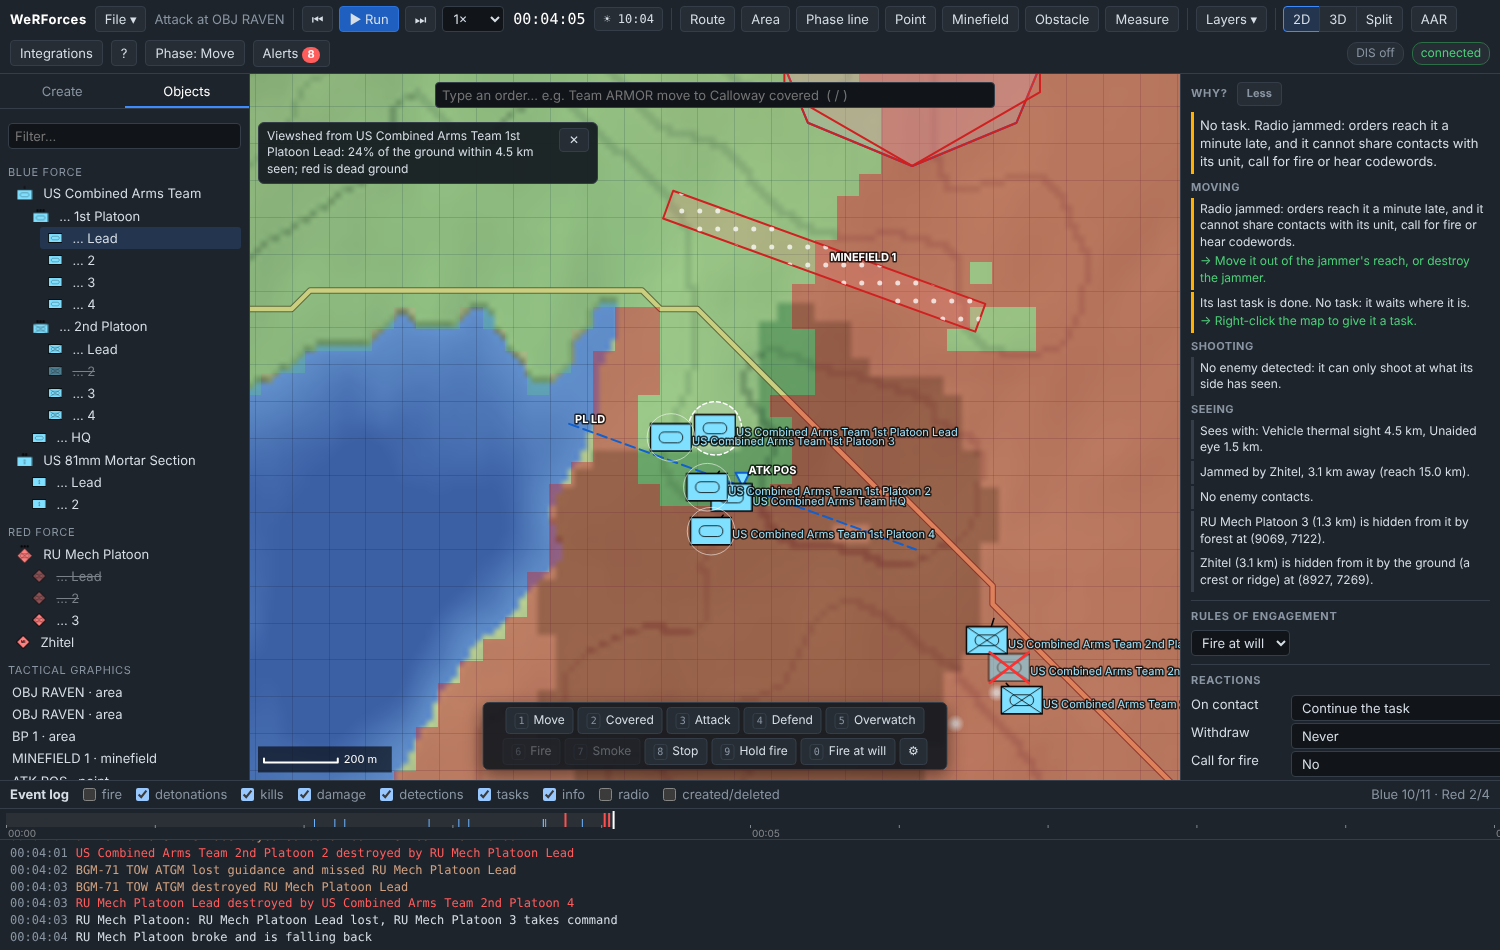
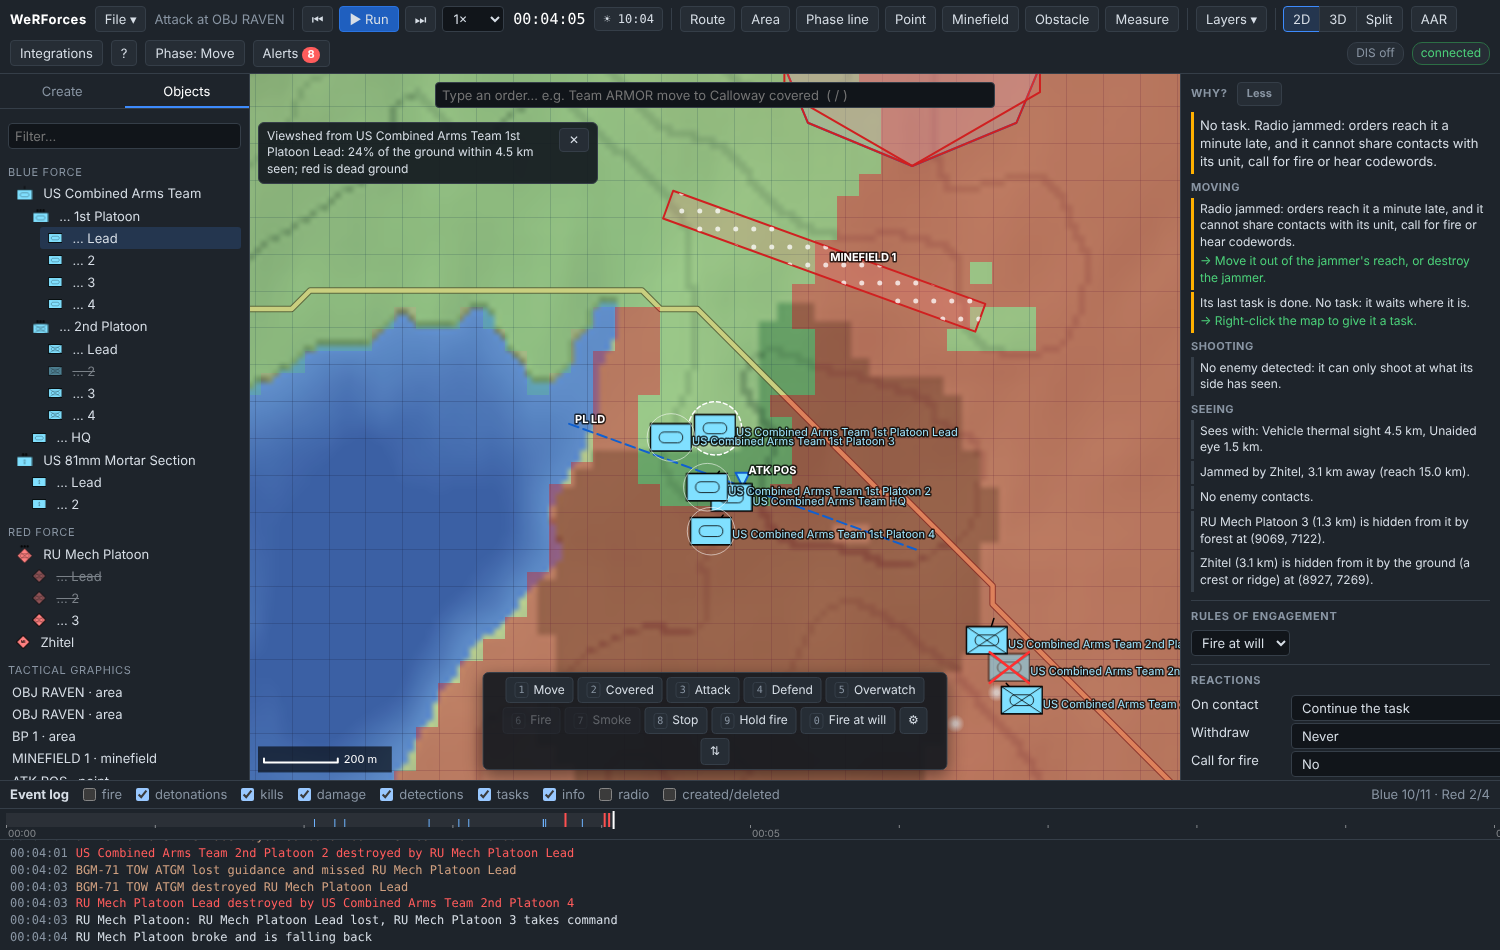
Docs: tutorial 16 and guides updated for the latest fixes
Quick-battle phase orders shown as tasks, the Deploy phase, the codeword
box in the Phases dialog, the quick-task bar's dock button, alerts that
come back, one-step settings undo, and typed orders taking a graphic
drawn once for each force as one place.

Claude-Session: https://claude.ai/code/session_019S1D5WkPWw8YDuwARok2oj

Changed region(s): [[0.3067, 0.7021, 0.644, 0.7937]]

diff --git a/docs/tutorials/16-quick-battle-and-command-tools.md b/docs/tutorials/16-quick-battle-and-command-tools.md
@@ -78,34 +78,48 @@ for the full name.
 ## 3. The synchronization matrix
 
 Press **Phases** in the toolbar (or **Show phases** in the brief). This is
-Blue's operation, one column per phase and one row per unit. Over the API, `GET
-$B/sync-matrix` returns both sides' matrices. In short:
+Blue's operation, one column per phase and one row per unit. The wizard gave
+the orders as tasks, so the cells show their descriptions (*Move to 08.922E
+06.668N*); hover one: *Given as a task; type over it to change it*. Over the
+API, `GET $B/sync-matrix` returns both sides' matrices:
 
 | Force | Phase | Trigger | Orders |
 | --- | --- | --- | --- |
-| Blue | P1 Move | at time 1 s | US Combined Arms Team: move to ATK POS |
-| Blue | P2 Assault | when previous done, +30 s | US Combined Arms Team: assault OBJ RAVEN; US 81mm Mortar Section: fire 4 rounds on OBJ RAVEN |
-| Blue | P3 Consolidate | when previous done, +10 s | US Combined Arms Team: consolidate (defend) on OBJ RAVEN |
-| Red | P1 Defend | at time 0 | RU Mech Platoon: defend BP 1 |
+| Blue | P1 Move | at time 1 s | US Combined Arms Team: Move to 08.922E 06.668N (ATK POS) |
+| Blue | P2 Assault | when previous done, +30 s | US Combined Arms Team: Move to 09.382E 07.938N (OBJ RAVEN); US 81mm Mortar Section: Fire mission 09.382E 07.938N, 4 rounds |
+| Blue | P3 Consolidate | when previous done, +10 s | US Combined Arms Team: Defend 09.382E 07.938N facing 20° |
+| Red | P1 Defend | at time 0 | RU Mech Platoon: Defend 09.382E 07.938N facing 200° |
+
+```json
+{"force": 1, "phases": [
+  {"id": "P1", "name": "Move", "trigger": {"type": "time", "time": 1},
+   "orders": [{"targetId": "U1", "task": {"type": "moveTo", "target": {"x": 8922.181219652968, "y": 6668.40571970489}}}]},
+  {"id": "P2", "name": "Assault", "trigger": {"type": "previousDone", "delay": 30}, ...},
+  ...], "started": {}}
+```
 
 Phases start in order. When one starts, it gives all its orders at once and
 sends its name to its force as a **codeword**: *Move* sends *MOVE*, so a unit's
-plan can *wait until codeword MOVE*.
+plan can *wait until codeword MOVE*. (Support that never finishes its orders,
+such as scouts on overwatch or helicopters holding, gets a phase of its own,
+*P0 Deploy*, so it doesn't hold up the others. This battle has none.)
 
 As planned, Blue assaults 30 s after the team reaches ATK POS. Make it wait for
-your word instead: change P2's trigger to the codeword **EXECUTE**. A matrix is
-replaced as a whole, and each order can be given in words, as you would type it
-on the order line but without the unit's name:
+your word instead: change P2's trigger to the codeword **EXECUTE**. In the
+dialog, set the chooser under *Assault* to **on codeword**, type *EXECUTE* in
+the box next to it and press **Save**. Over the API, a matrix is replaced as a
+whole, and each order can be given in words, as you would type it on the order
+line but without the unit's name:
 
 ```bash
 curl -s -X PUT -H "$H" $B/sync-matrix/blue -d '{"phases": [
   {"id": "P1", "name": "Move", "trigger": {"type": "time", "time": 1},
    "orders": [{"targetId": "U1", "text": "move to ATK POS"}]},
   {"id": "P2", "name": "Assault", "trigger": {"type": "codeword", "codeword": "EXECUTE"},
-   "orders": [{"targetId": "U1", "text": "move to 9382 7938"},
-              {"targetId": "U5", "text": "fire 4 rounds on 9382 7938"}]},
+   "orders": [{"targetId": "U1", "text": "move to OBJ RAVEN"},
+              {"targetId": "U5", "text": "fire 4 rounds on OBJ RAVEN"}]},
   {"id": "P3", "name": "Consolidate", "trigger": {"type": "previousDone", "delay": 10},
-   "orders": [{"targetId": "U1", "text": "defend 9382 7938 facing 20 width 500 m"}]}]}'
+   "orders": [{"targetId": "U1", "text": "defend OBJ RAVEN facing 20 width 500 m"}]}]}'
 ```
 
 The server turns each `text` into a task (it answers 400, naming the unit and
@@ -118,11 +132,12 @@ phase, if it can't) and returns the matrix, with `started` still empty:
  "started": {}}
 ```
 
-(9382 7938 is the centre of OBJ RAVEN. Exercise control sees both sides'
-*OBJ RAVEN*, so the name alone is ambiguous; a player would only see their
-own.) Open **Phases** again: the cells now read as typed, green when they parse
-as an order. Each column's trigger is the chooser under its name: *by hand*,
-*at time (s)*, *on codeword* or *when previous done (+s)*.
+The outputs below come from this call. The dialog keeps the wizard's exact
+coordinates where the call rounds them to the metre, so with the GUI a few
+grid references come out a metre different. Open **Phases** again: the cells
+now read as typed, green when they parse as an order. Each column's trigger is
+the chooser under its name: *by hand*, *at time (s)*, *on codeword* or *when
+previous done (+s)*.
 
 ![Blue's synchronization matrix after the change, with phase Move started](../images/tutorial-16-phases.png)
 
@@ -180,7 +195,8 @@ The team passed its order down to its platoons, each keeping its place.
 offers the common orders as buttons with keys **1**–**0**: *Move*, *Covered*,
 *Attack*, *Defend*, *Overwatch*, *Fire*, *Smoke*, *Stop*, *Hold fire*, *Fire
 at will*. Press **2** and click ATK POS for the same covered move. **⚙**
-chooses the buttons.
+chooses the buttons, and **⇅** moves the bar to the top of the map when it
+covers units near the bottom edge.
 
 ## 5. Travel estimates
 
@@ -341,9 +357,9 @@ warning). E2's **Why?** explains what that means:
 - *Jammed by Zhitel, 3.1 km away (reach 15.0 km).* (info, exercise control
   only)
 
-Now give the word for the assault. There is no codeword button in the GUI:
-send it over the API (or MCP `send_codeword`), or press **▶ Start now** on the
-Assault column in **Phases**, which starts the phase the same way. At 0:05:00:
+Now give the word for the assault. At 0:05:00 open **Phases**, type *execute* in
+the codeword box at the bottom and press **Send codeword** (or use MCP
+`send_codeword`, or the API):
 
 ```bash
 curl -s -H "$H" $B/codewords -d '{"force": 1, "codeword": "execute"}'

diff --git a/docs/user-guide.md b/docs/user-guide.md
@@ -411,8 +411,9 @@ orders. Each button has a key, **1** to **9** then **0**:
 
 Buttons the selection can't use are greyed out. **⚙** chooses up to ten
 buttons and their order from the full list (which adds *Follow*, *Screen*,
-*Orbit*, *Return fire*, *Resupply* and *Dismount*). The choice is kept in this
-browser.
+*Orbit*, *Return fire*, *Resupply* and *Dismount*). **⇅** moves the bar to
+the top of the map (and back), for when it covers units near the bottom edge.
+Both choices are kept in this browser.
 
 ## Alerts
 
@@ -435,7 +436,8 @@ loose entity:
 Critical alerts also pop up once. Click an alert to select and centre what it
 is about, ✓ to acknowledge it, or **Acknowledge all**. **N** jumps to the next
 alert. Alerts about a condition that clears (fuel, morale, jamming) close by
-themselves. Players only see their own force's alerts. REST `GET
+themselves. An alert you acknowledged stays quiet while its condition lasts,
+and comes back if the condition clears and then returns. Players only see their own force's alerts. REST `GET
 /api/v1/alerts`, MCP `get_alerts`.
 
 ## Synchronization matrix
@@ -445,7 +447,9 @@ phase, one row per unit (and loose entity), and in each cell that unit's order
 for the phase, in words as on the [order line](#typed-orders) but without the
 name (*move to Calloway covered*, *defend OBJ CALLOWAY facing north*, *hold
 fire*; several separated by *;*). A cell turns green when it reads as an order
-(hover to see how) and red when it doesn't.
+(hover to see how) and red when it doesn't. Orders given as tasks (by a quick
+battle, or through the API) show as their description, e.g. *Move to 08.922E
+06.668N*, and are kept as they are unless you type over them.
 
 Above each column are the phase's name and its trigger:
 
@@ -461,7 +465,9 @@ Phases start in order: one waits until the one before it has started. When a
 phase starts it gives all its orders at once and sends its name to the force as
 a codeword (phase *Assault* sends *ASSAULT*), so unit plans can wait for it.
 **+ Phase** adds a column, ✕ removes one, **Save** stores the matrix and
-**Close** leaves without saving. A started phase shows *started 00:05:01*.
+**Close** leaves without saving. Type a word in the codeword box at the bottom
+and press **Send codeword** to send it to the force now: phases and plans
+waiting for it go on. A started phase shows *started 00:05:01*.
 Exercise control picks the force at the top; a player plans for their own.
 See [Concepts](concepts.md#synchronization-matrix).
 
@@ -493,7 +499,8 @@ shows its speed, heading, throttle, target, damage and ammunition.
 | Esc | Hand it back: it stops and its task ends |
 
 Driving replaces its task and plan, and any other order ends it. Driving a unit's leader takes the unit's
-orders away too; members keeping formation follow it. Aircraft keep at least
+orders away too, and its members fall in behind it in formation (also those
+that were holding positions of their own). Aircraft keep at least
 their minimum speed. REST `POST /api/v1/entities/{id}/drive` with `{"throttle":
 0.5, "turn": -1, "targetId": "E12"}` (a turn lasts 1.5 s unless sent again).
 
@@ -557,6 +564,9 @@ File → **Simulation settings…** (or click the time-of-day chip):
   roads; people walk about the towns. They are neutral (force 3) and run from
   shots and blasts nearby. See [Concepts](concepts.md#pattern-of-life).
 
+**Apply** changes all of these as one edit, so one **Undo** takes the whole
+dialog back.
+
 ## Quick battle
 
 File → **Quick battle…** builds a ready-to-run battle and replaces the current
@@ -580,7 +590,11 @@ scenario:
 **Build battle** places both forces on land either side of an objective (a town
 near the middle of the map when there is one), draws the mission's graphics
 (objective, attack position, line of departure, battle position, minefield...)
-and gives each side a [synchronization matrix](#synchronization-matrix). The
+and gives each side a [synchronization matrix](#synchronization-matrix), its
+orders given as tasks. Support whose orders never finish (scouts watching the
+objective from their own side, attack helicopters holding over the battle
+area, sappers following the attack) gets them in a first phase of its own, *P0
+Deploy*, so it does not hold up the phases that wait for the one before. The
 brief that follows says who does what; **Start** runs the clock, **Show
 phases** opens the matrix. The quick battle is one edit: **Undo** brings back
 the previous scenario. REST `POST /api/v1/scenario/quick-battle`, MCP

diff --git a/docs/concepts.md b/docs/concepts.md
@@ -237,7 +237,7 @@ A **plan** is a list of statements carried out **in order**:
 | `waitUntil` *condition* | Wait until the condition holds |
 | `if` *condition* `then` [...] `else` [...] | Check the condition once, now, and carry out one branch (`else` is optional) |
 | `while` *condition* `body` [...] | Check the condition; while it holds, carry out the body and check again |
-| `sendCodeword` *word* | Send a [codeword](#codewords) to the owner's force and continue |
+| `sendCodeword` *word* | Send a [codeword](#codewords) to the owner's force and continue. While the owner's radio is jammed the plan waits here |
 | `report` *text* | Put a radio message from the owner in the event log (*radio*) and continue |
 
 Conditions:
@@ -285,7 +285,9 @@ unit that sent it).
 
 Once a force has a codeword it keeps it, so a plan that reaches *wait until
 codeword EXECUTE* after it was sent goes straight on. A unit whose radio is
-[jammed](#electronic-warfare) does not hear codewords until its radio is back.
+[jammed](#electronic-warfare) does not hear codewords until its radio is back,
+and a plan cannot send one while its unit's radio is jammed: it waits at that
+step.
 Codewords are per force: Red can't hear Blue's. `GET /api/v1/codewords` lists
 them with the time each was first sent; checkpoints save them.
 
@@ -311,7 +313,10 @@ out to the force as a codeword (*ASSAULT*).
 Orders are carried out like any order: a later order to the same unit (typed,
 from a plan, or by hand) replaces the phase's order. An order that never ends,
 such as *Defend* or *Overwatch* without a duration, keeps a following
-`previousDone` phase waiting; use another trigger after such a phase. Phases
+`previousDone` phase waiting: give such orders in a phase of their own, with
+another trigger after it (a quick battle puts its support's orders in a first
+*Deploy* phase for this reason). An order to a unit with no one left alive
+counts as failed, so it doesn't hold up the next phase. Phases
 are checked once a simulated second. Each force has its own matrix and its own
 record of which phases have started. Up to 20 phases of up to 100 orders each.
 
@@ -684,7 +689,8 @@ leader lost, losses, under fire or first contact after a quiet minute, and
 radio jammed. Each is about a unit or a loose entity, with a severity
 (critical, warning, info), the time it was last raised and a count. An alert
 about a lasting condition (broken, fuel, ammunition, jammed) closes by itself
-when the condition clears. Acknowledged alerts are kept (up to 200 in all) and
+when the condition clears. Acknowledged while the condition lasts, it is not
+raised again until the condition has cleared and come back. Acknowledged alerts are kept (up to 200 in all) and
 listed with `GET /api/v1/alerts?all=true`. Alerts are checked once a simulated
 second and only read the simulation.
 

diff --git a/docs/faq.md b/docs/faq.md
@@ -143,9 +143,11 @@ jammer, or switch it off (exercise control: the jammer's inspector, or `PATCH
 Phases start in order, so check that the one before it has started (**Phases**
 shows *started* and the time). A *when previous done* trigger waits until every
 order of the previous phase is carried out: an order that never ends, such as
-*Defend* or *Overwatch* without a duration, keeps it waiting. A *codeword*
-trigger needs exactly that codeword (`GET /api/v1/codewords` lists those sent).
-**▶ Start now** starts a phase by hand.
+*Defend* or *Overwatch* without a duration, keeps it waiting (orders to units
+wiped out count as done). Move such orders to a phase of their own, or give the
+next phase another trigger. A *codeword* trigger needs exactly that codeword
+(`GET /api/v1/codewords` lists those sent); send it from the codeword box at
+the bottom of the **Phases** dialog. **▶ Start now** starts a phase by hand.
 
 ### The order line says *which one?* or *where?*
 
@@ -153,9 +155,9 @@ The order names something more than one object answers to, or a place it
 doesn't know. *which one?* lists the candidates with their ids: type the id
 (*E31*) or the name with its id (*T-72B3 (E31)*). For a place, use a town, a
 graphic name or id (*G5*), an object, coordinates (*9382 7938*) or *2 km north
-of Brenham*. Exercise control sees every force's graphics, so a name both sides
-use (a quick battle draws *OBJ RAVEN* for each) is not understood as a place:
-use its id or coordinates. Check an order
+of Brenham*. Two different graphics with the same name can't be told apart
+(*where?*): use the id. A graphic drawn once for each force with the same name
+and shape, like a quick battle's *OBJ RAVEN*, counts as one place. Check an order
 without carrying it out with `POST /api/v1/orders` and `"dryRun": true`.
 
 ### The artillery doesn't answer my observer's calls

diff --git a/docs/reference/scenario-format.md b/docs/reference/scenario-format.md
@@ -227,7 +227,7 @@ A force's operation in phases ([Concepts](../concepts.md#synchronization-matrix)
   "force": 1,
   "phases": [
     { "id": "P1", "name": "Move", "trigger": { "type": "time", "time": 1 },
-      "orders": [ { "targetId": "U1", "task": { "type": "moveTo", "target": { "x": 8922, "y": 6668 } }, "text": "US Combined Arms Team: move to ATK POS" } ] },
+      "orders": [ { "targetId": "U1", "task": { "type": "moveTo", "target": { "x": 8922, "y": 6668 } }, "text": "move to ATK POS" } ] },
     { "id": "P2", "name": "Assault", "trigger": { "type": "codeword", "codeword": "EXECUTE" },
       "orders": [ { "targetId": "U1", "task": { "type": "moveTo", "target": { "x": 9382, "y": 7938 } } },
                   { "targetId": "U5", "task": { "type": "fireMission", "target": { "x": 9382, "y": 7938 }, "rounds": 4, "radius": 150 } } ] }
